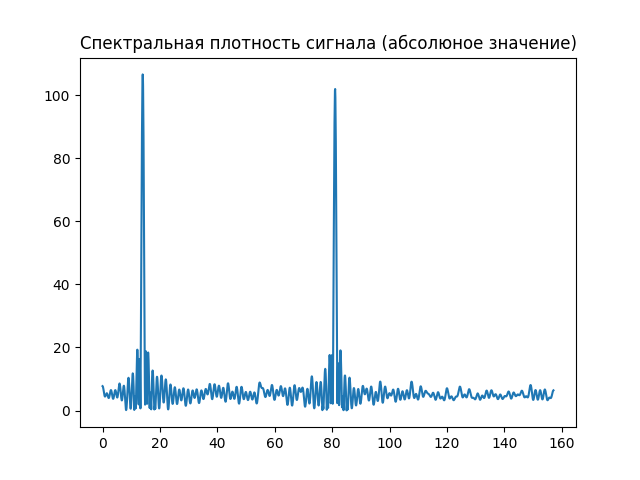
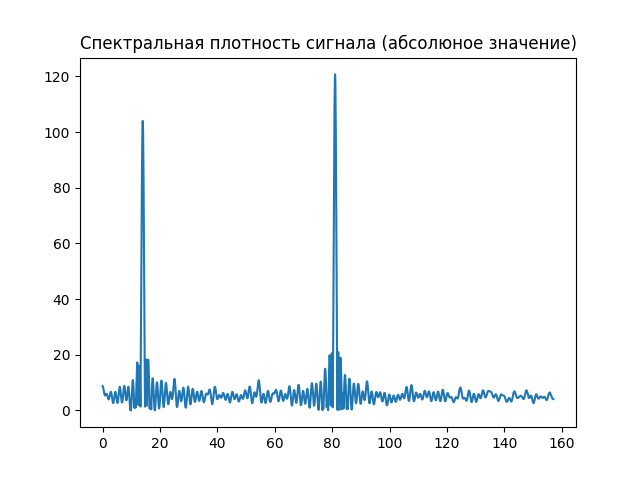
6th / OK

diff --git a/master-stage/DigitalProcessing/problem_6 (corell)/report_corell.tex b/master-stage/DigitalProcessing/problem_6 (corell)/report_corell.tex
@@ -205,11 +205,16 @@ ww2_2 = np.pi * max_num(1) / (128 * T)
 
 
 \section{Вывод}
-Рассматривались статистические характеристики случайных процессов, при помощи которых можно делать выводы о свойствах данных процессов или систем. В случае эргодичности случайного процесса, судить о его свойствах можно основываясь на одной его реализации. 
-Получены следующие характеристики случайного процесса:\\
-    • Оценка математического ожидания: 1.001;\\
-    • Оценка дисперсии случайного процесса: 0.044;\\
-    • Оценка корреляционной функции – Рисунок 2;\\
-При изучении полученных характеристик реализации случайного процесса, а также построенной гистограмме, можно сделать вывод о том, что после использования цифрового фильтра – распределение случайного процесса больше не является равномерным, а большинство значений случайного процесса сконцентрированы в промежутке [0.8; 1.1].
+Изучен каррелограммный метод оценивания спектральной плотности на тестовой последовательности дискретных значений с наложенным случайным процессом. Была найдена корреляционная функция и её спектральная плотность по методу прямоугольно окна. Далее была выбрана оконная функция Барлетта и найдена уже её спектральная плотность.\\
+В результате работы программы были получены следующие угловые частоты:\\
+    • С использование прямоугольного окна\\
+$\omega_{1}$ = 148.16\\
+$\omega_{2}$ = 147.85\\
+\\
+    • С использование оконной функции Бартлетта\\
+$\omega_{1bart}$ = 71\\
+$\omega_{2bart}$ = 70.83\\
+
+Графики спектральной плотности двух методов отличаются. Благодаря использованию оконной функции Бартлетта было убрано явление Гиббса, возникновение которого связано с использованием прямоугольного окна.
 
 \end{document}

diff --git a/master-stage/DigitalProcessing/problem_6 (corell)/main_corell.py b/master-stage/DigitalProcessing/problem_6 (corell)/main_corell.py
@@ -36,8 +36,6 @@ x = np.sin(w1 * T * teta) + np.cos(w2 * T * teta)
 
 r = b * np.random.rand(N)
 
-print(len(teta))
-
 y = x + (r - np.mean(r))
 
 plt.plot(teta, x)
@@ -90,6 +88,8 @@ max_num = Search(y)
 ww1 = np.pi * max_num[0] / (128 * T)
 ww2 = np.pi * max_num[1] / (128 * T)
 
+print(ww1, ww2)
+
 bartletta_window = np.zeros(len(r))
 ht = np.arange(0, len(r), 1)
 for i in range(len(ht)):
@@ -125,3 +125,5 @@ plt.show()
 max_num = Search(y1)
 ww1_1 = np.pi * max_num[0] / (128 * T)
 ww2_2 = np.pi * max_num[1] / (128 * T)
+
+print(ww1_1, ww2_2)
